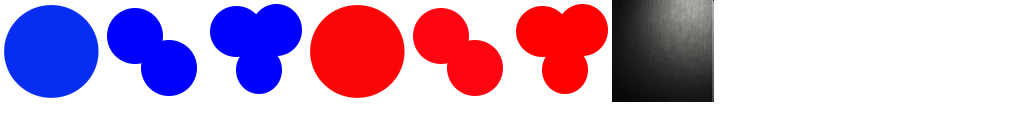
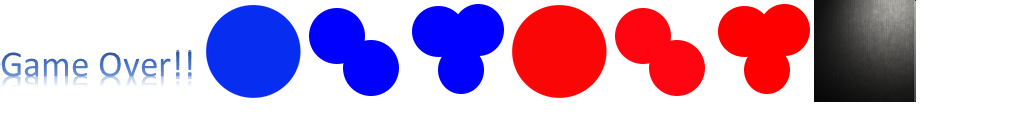
2 player chain reaction completed

diff --git a/core/src/com/ai/chainreaction/ChainReaction.java b/core/src/com/ai/chainreaction/ChainReaction.java
@@ -4,7 +4,10 @@ import com.badlogic.gdx.ApplicationAdapter;
 import com.badlogic.gdx.Gdx;
 import com.badlogic.gdx.graphics.GL20;
 import com.badlogic.gdx.graphics.OrthographicCamera;
+import com.badlogic.gdx.graphics.Texture;
+import com.badlogic.gdx.graphics.g2d.Sprite;
 import com.badlogic.gdx.graphics.g2d.SpriteBatch;
+import com.badlogic.gdx.graphics.g2d.TextureRegion;
 
 public class ChainReaction extends ApplicationAdapter {
     SpriteBatch batch;
@@ -19,7 +22,11 @@ public class ChainReaction extends ApplicationAdapter {
     int boardOffset;
     int boardHeight;
 
+    private Texture img;
+    private Sprite sprite;
+
     boolean turn = true;
+    boolean gameOver = false;
 
     @Override
     public void create() {
@@ -34,30 +41,30 @@ public class ChainReaction extends ApplicationAdapter {
 
         for (int row = 0; row < tiles.length; row++) {
             for (int col = 0; col < tiles[0].length; col++) {
-                if ((row == 0 &&col==0) || (row == 0 &&col==tiles.length) || (col == 0 &&row==tiles.length) || (col == tiles.length &&row==tiles.length)) {
+                if ((row == 0 && col == 0) || (row == 0 && col == tiles.length) || (col == 0 && row == tiles.length) || (col == tiles.length && row == tiles.length)) {
                     tiles[row][col] = new Tile(col * tileSize + tileSize / 2,
                             row * tileSize + boardOffset + tileSize / 2,
                             tileSize,
-                            tileSize,2);
-                }
-                else if(row == 0 || row == tiles.length - 1 || col == 0 || col == tiles.length)
-                {
+                            tileSize, 2);
+                } else if (row == 0 || row == tiles.length - 1 || col == 0 || col == tiles.length) {
                     tiles[row][col] = new Tile(col * tileSize + tileSize / 2,
                             row * tileSize + boardOffset + tileSize / 2,
                             tileSize,
-                            tileSize,3);
-                }
-                else {
+                            tileSize, 3);
+                } else {
                     tiles[row][col] = new Tile(col * tileSize + tileSize / 2,
                             row * tileSize + boardOffset + tileSize / 2,
                             tileSize,
-                            tileSize,4);
+                            tileSize, 4);
                 }
 
             }
         }
 
         Gdx.input.setInputProcessor(new InputListener(this));
+
+        img = new Texture("gameOver.png");
+        sprite = new Sprite(img);
 
     }
 
@@ -71,11 +78,31 @@ public class ChainReaction extends ApplicationAdapter {
                 tiles[row][col].render(batch);
             }
         }
+
+        if (gameOver) {
+            sprite.draw(batch);
+        }
+
         batch.end();
     }
 
     @Override
     public void dispose() {
         batch.dispose();
+        img.dispose();
+    }
+
+    public int checkWinner(int color) {
+        final int noWin = 0;
+        final int Win = 1;
+        for (int row = 0; row < tiles.length; row++) {
+            for (int col = 0; col < tiles[0].length; col++) {
+                Tile tile = tiles[row][col];
+                if (tile.color != color) {
+                    return noWin;
+                }
+            }
+        }
+        return Win;
     }
 }

diff --git a/core/src/com/ai/chainreaction/Tile.java b/core/src/com/ai/chainreaction/Tile.java
@@ -62,6 +62,7 @@ public class Tile {
         red3 = getAtlas("pack").findRegion("RedOrb3");
 
 
+
     }
 
     public void loadAtlas(String path, String key){
@@ -73,7 +74,7 @@ public class Tile {
     }
 
     public void render(SpriteBatch batch){
-        batch.draw(tile,x-width/2,y-height/2, width, height);
+        batch.draw(tile, x - width / 2, y - height / 2, width, height);
         if(color== RED){
             if(clicked==1) {
                 batch.draw(blue, x - width / 2, y - height / 2, width, height);
@@ -99,7 +100,9 @@ public class Tile {
             {
                 batch.draw(red3,x-width/2,y-height/2, width, height);
             }
+
         }
+
     }
 
     public boolean touched(float x, float y){

diff --git a/core/src/com/ai/chainreaction/InputListener.java b/core/src/com/ai/chainreaction/InputListener.java
@@ -39,6 +39,10 @@ public class InputListener extends InputAdapter {
                         chainreaction.turn = !chainreaction.turn;   //turn does not change
                     }
                     chainreaction.turn = !chainreaction.turn;
+                    if(chainreaction.checkWinner(tile.player)==1)
+                    {
+                        chainreaction.gameOver=true;
+                    }
                 }
             }
         }
